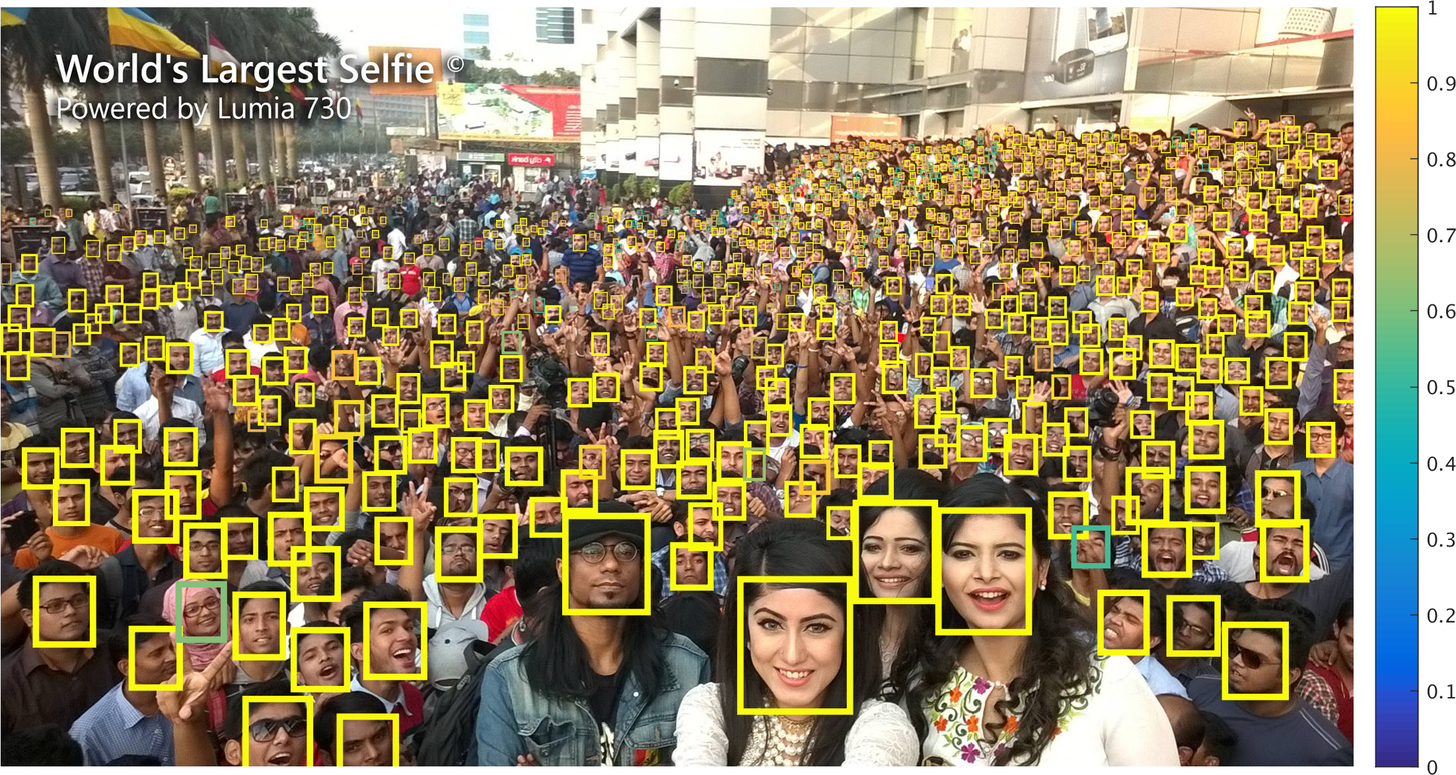
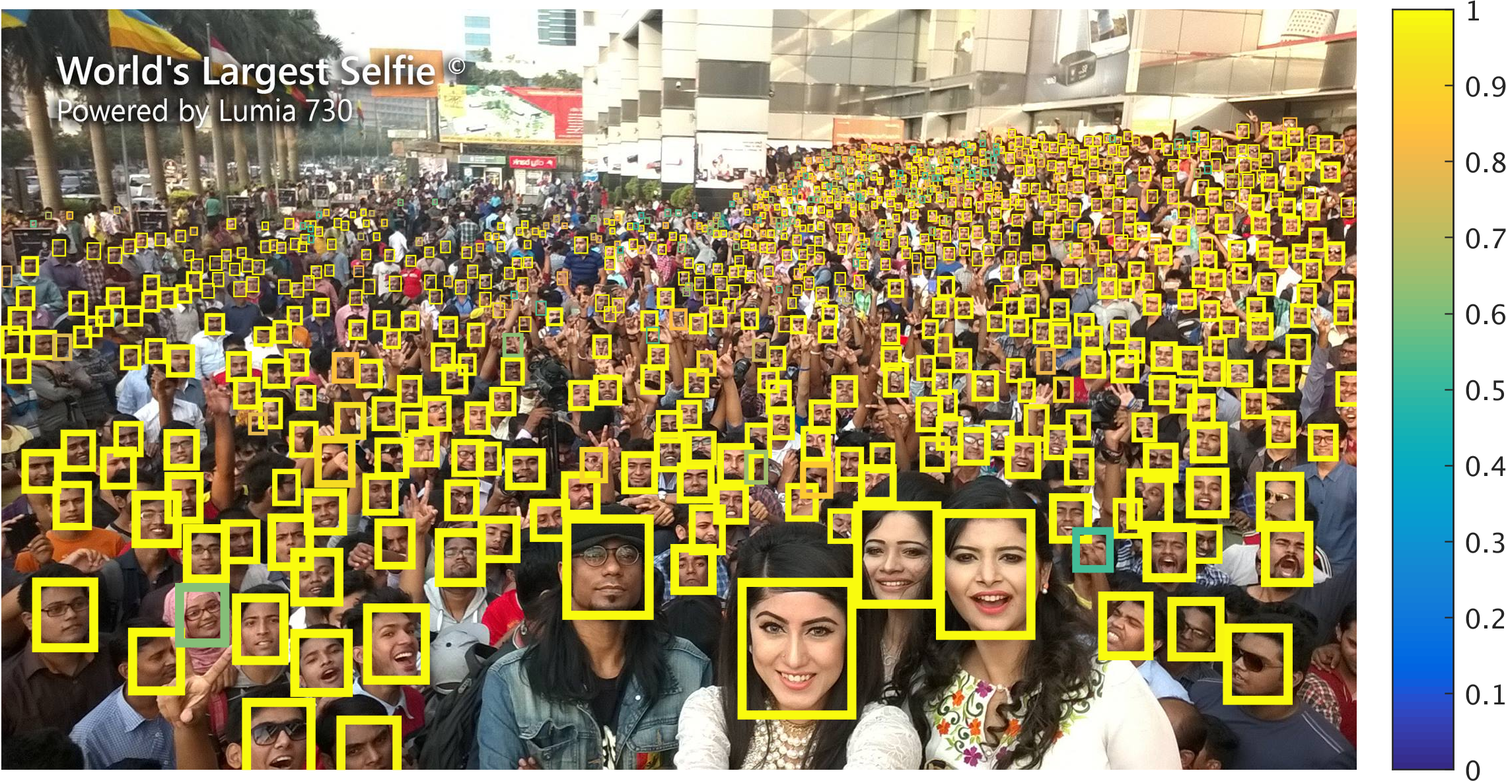
fix a bug

diff --git a/minimal_demo.m b/minimal_demo.m
@@ -18,7 +18,7 @@ if ~exist(model_path)
 end
 
 % use gpu or not (make sure you have matconvnet compiled with gpu)
-use_gpu = true;
+gpu_id = 4;
 
 % setup testing threshold
 thresh = 0.5;
@@ -27,7 +27,8 @@ nmsthresh = 0.1;
 % loadng pretrained model (and some final touches) 
 net = load(model_path);
 net = dagnn.DagNN.loadobj(net.net);
-if use_gpu
+if gpu_id > 0 % for matconvnet it starts with 1 
+    gpuDevice(gpu_id);
     net.move('gpu');
 end
 net.layers(net.getLayerIndex('score4')).block.crop = [1,2,1,2];
@@ -62,7 +63,7 @@ for f = dir('demo/data/*')'
                     floor(log2(max(clusters_h/raw_h))));
     % <=1: avoid too much artifacts due to interpolation
     % 5000: in case run out of memory 
-    max_scale = min(1, -log2(max(raw_h, raw_w)/5000))); 
+    max_scale = min(1, -log2(max(raw_h, raw_w)/5000));
     scales = min_scale:1:max_scale;
 
     % initialize variables that store bounding boxes
